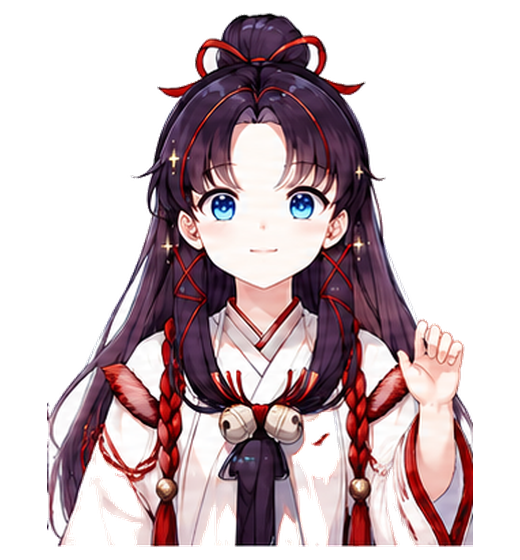
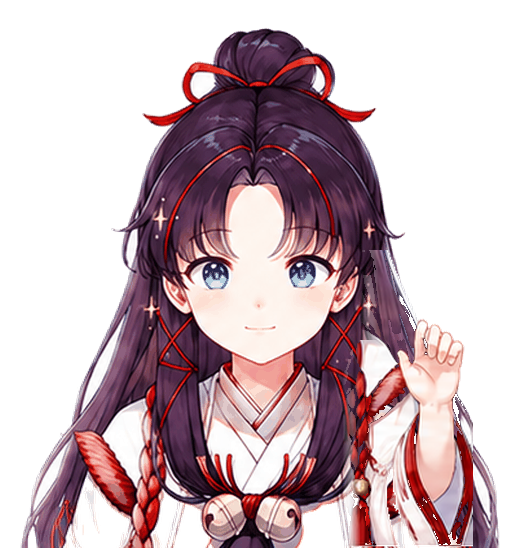
Refine mascot blink and wave rendering

diff --git a/scripts/refine_mascot_frames.py b/scripts/refine_mascot_frames.py
@@ -3,7 +3,7 @@ from __future__ import annotations
 from collections import deque
 from pathlib import Path
 
-from PIL import Image, ImageChops, ImageDraw, ImageOps
+from PIL import Image, ImageChops, ImageDraw, ImageFilter, ImageOps
 
 
 ROOT = Path(__file__).resolve().parents[1]
@@ -14,6 +14,16 @@ WAVE_SRC = ROOT / "ChatGPT Image 2026年5月9日 16_58_49.png"
 CANVAS = (520, 560)
 BASELINE = 548
 PREVIEW_CELL = (188, 182)
+WAVE_ARM_CUTS = [
+    (344, 220),
+    (342, 198),
+    (338, 174),
+    (334, 146),
+    (330, 122),
+    (328, 105),
+    (326, 95),
+    (324, 88),
+]
 
 
 def whiten_to_alpha(image: Image.Image) -> Image.Image:
@@ -121,6 +131,51 @@ def alpha_bbox(image: Image.Image, threshold: int = 8) -> tuple[int, int, int, i
     return bbox
 
 
+def repair_lower_garment_holes(
+    image: Image.Image,
+    *,
+    lower_start_ratio: float = 0.58,
+    margin_x: int = 22,
+    kernel_size: int = 19,
+    min_row_span: int = 110,
+    row_fill: bool = True,
+) -> Image.Image:
+    rgba = image.convert("RGBA")
+    alpha = rgba.getchannel("A")
+    closed = alpha.filter(ImageFilter.MaxFilter(kernel_size)).filter(ImageFilter.MinFilter(kernel_size))
+    alpha_pixels = alpha.load()
+    closed_pixels = closed.load()
+    width, height = rgba.size
+    bbox = alpha_bbox(rgba)
+    x_start = max(0, bbox[0] + margin_x)
+    x_end = min(width, bbox[2] - margin_x)
+    y_start = max(0, bbox[1] + round((bbox[3] - bbox[1]) * lower_start_ratio))
+
+    if x_end <= x_start or y_start >= bbox[3]:
+        return rgba
+
+    for y in range(y_start, bbox[3]):
+        for x in range(x_start, x_end):
+            if alpha_pixels[x, y] <= 8 and closed_pixels[x, y] > 8:
+                alpha_pixels[x, y] = 255
+
+    if row_fill:
+        row_fill_start = max(y_start, bbox[1] + round((bbox[3] - bbox[1]) * 0.5))
+        for y in range(row_fill_start, bbox[3]):
+            row_pixels = [x for x in range(x_start, x_end) if alpha_pixels[x, y] > 8]
+            if len(row_pixels) < 2:
+                continue
+            left_edge = row_pixels[0]
+            right_edge = row_pixels[-1]
+            if right_edge - left_edge < min_row_span:
+                continue
+            for x in range(left_edge, right_edge + 1):
+                alpha_pixels[x, y] = 255
+
+    rgba.putalpha(alpha)
+    return rgba
+
+
 def normalize_frame(
     image: Image.Image,
     *,
@@ -140,6 +195,38 @@ def normalize_frame(
     y = BASELINE - subject.height + y_shift
     canvas.alpha_composite(subject, (x, y))
     return canvas
+
+
+def build_stable_wave_frame(base: Image.Image, source: Image.Image, index: int) -> Image.Image:
+    frame = repair_lower_garment_holes(base)
+    source_rgba = source.convert("RGBA")
+    source_pixels = source_rgba.load()
+    mask = Image.new("L", CANVAS, 0)
+    mask_pixels = mask.load()
+    x_cut, y_cut = WAVE_ARM_CUTS[index]
+
+    for y in range(y_cut, CANVAS[1]):
+        dynamic_x_cut = x_cut
+        if y < 250:
+            dynamic_x_cut = max(dynamic_x_cut, 382)
+        elif y < 340:
+            dynamic_x_cut = max(dynamic_x_cut, 360)
+
+        for x in range(dynamic_x_cut, CANVAS[0]):
+            r, g, b, a = source_pixels[x, y]
+            if a <= 8:
+                continue
+            if max(r, g, b) < 88:
+                continue
+            edge_fade = min(1, max(0, (x - dynamic_x_cut) / 18))
+            if edge_fade <= 0:
+                continue
+            mask_pixels[x, y] = round(a * edge_fade)
+
+    overlay = Image.new("RGBA", CANVAS, (255, 255, 255, 0))
+    overlay.paste(source_rgba, (0, 0), mask)
+    frame.alpha_composite(overlay)
+    return repair_lower_garment_holes(frame, row_fill=False)
 
 
 def crop_grid(image: Image.Image, cols: int, rows: int, index: int) -> Image.Image:
@@ -175,11 +262,13 @@ def crop_wave_cell(image: Image.Image, index: int) -> Image.Image:
 
 
 def regenerate_wave_frames() -> None:
+    base = repair_lower_garment_holes(Image.open(OUT / "look" / "center.png").convert("RGBA"))
     wave_sheet = Image.open(WAVE_SRC).convert("RGBA")
     for index in range(8):
         crop = crop_wave_cell(wave_sheet, index)
         cleaned = remove_left_edge_fragments(whiten_to_alpha(crop))
-        frame = normalize_frame(cleaned, target_height=536, prepared_alpha=True)
+        source = normalize_frame(cleaned, target_height=536, prepared_alpha=True)
+        frame = build_stable_wave_frame(base, source, index)
         frame.save(OUT / "wave" / f"wave-{index}.png")
 
 
@@ -188,16 +277,22 @@ def refine_up_down_look_frames() -> None:
     # The provided 3x3 sheet contains clear straight-up at top-right and
     # straight-down at bottom-right. The middle-left/right cells are clearer
     # horizontal looks, so keep the previous mirror rule for those directions.
-    up = normalize_frame(crop_grid(look_sheet, 3, 3, 2), target_height=527)
+    center = repair_lower_garment_holes(Image.open(OUT / "look" / "center.png").convert("RGBA"))
+    center.save(OUT / "look" / "center.png")
+
+    up = repair_lower_garment_holes(normalize_frame(crop_grid(look_sheet, 3, 3, 2), target_height=527))
     w, h = look_sheet.size
     down_crop = look_sheet.crop((round(2 * w / 3), round(2 * h / 3) + 24, w, h))
-    down = normalize_frame(down_crop, target_height=527)
+    down = repair_lower_garment_holes(normalize_frame(down_crop, target_height=527))
     up.save(OUT / "look" / "up.png")
     down.save(OUT / "look" / "down.png")
 
-    left = Image.open(OUT / "look" / "left.png").convert("RGBA")
-    down_left = Image.open(OUT / "look" / "down-left.png").convert("RGBA")
-    up_left = Image.open(OUT / "look" / "up-left.png").convert("RGBA")
+    left = repair_lower_garment_holes(Image.open(OUT / "look" / "left.png").convert("RGBA"))
+    down_left = repair_lower_garment_holes(Image.open(OUT / "look" / "down-left.png").convert("RGBA"))
+    up_left = repair_lower_garment_holes(Image.open(OUT / "look" / "up-left.png").convert("RGBA"))
+    left.save(OUT / "look" / "left.png")
+    down_left.save(OUT / "look" / "down-left.png")
+    up_left.save(OUT / "look" / "up-left.png")
     ImageOps.mirror(left).save(OUT / "look" / "right.png")
     ImageOps.mirror(up_left).save(OUT / "look" / "up-right.png")
     ImageOps.mirror(down_left).save(OUT / "look" / "down-right.png")

diff --git a/README.md b/README.md
@@ -48,15 +48,15 @@ draft: false
 - sitemap：由 Astro sitemap 集成生成，帮助搜索引擎发现页面。
 - robots.txt：公开爬虫规则并声明 sitemap 地址。
 - 评论占位：现在只留位置，不连接任何评论服务。
-- 二次元小角色：使用 `public/images/mascot-frames/` 中的动作帧，支持鼠标视线方向切换、正面空闲眼部眨眼、点击挥手、拖动位置和隐藏；移动端隐藏，不连接后端。
+- 二次元小角色：使用 `public/images/mascot-frames/` 中的动作帧，支持鼠标视线方向切换、正面空闲眼部眨眼、点击挥手、拖动位置和隐藏；移动端隐藏，不连接后端。眨眼时用前端眼皮层真实盖住眼睛，挥手时用静止底图叠加右臂动作，避免身体大幅漂移。
 
 图片资源放在 `public/images/`：
 
 - `site-bg.jpg`：页面背景图，显示时约 45% 不透明度。
 - `mascot-frames/look/`：九宫格视线方向帧，用于根据鼠标位置切换小人朝向；右向帧由左向帧镜像生成，保证左右一致。
 - `mascot-frames/blink/`：保留眨眼审核帧；实际网页眨眼使用正面帧上的 CSS 眼皮层，只改变眼部，不切换整张人物图。
-- `mascot-frames/wave/`：打招呼帧，用于点击或显示时的挥手动作；包含算法补出的 `wave-*-to-*` 过渡帧，让动作更连贯。
-- `scripts/refine_mascot_frames.py`：使用 `uv` 虚拟环境中的 Pillow 重新生成动作帧、修复挥手切分边界、补正上/正下视角和生成补帧。
+- `mascot-frames/wave/`：打招呼帧，用于点击或显示时的挥手动作；包含算法补出的 `wave-*-to-*` 过渡帧，让动作更连贯。当前挥手帧以静止正面帧为底图，再叠加右臂动作，减少身位变化。
+- `scripts/refine_mascot_frames.py`：使用 `uv` 虚拟环境中的 Pillow 重新生成动作帧、修复挥手切分边界、补正上/正下视角、填补下摆透明破洞和生成补帧。
 - 所有动作帧统一为同一画布和同一底部基线，避免动作之间忽大忽小。
 - `mascot-frames/preview.jpg`：动作帧预览图，只用于本地检查，不提交到仓库。
 

diff --git a/requirements.md b/requirements.md
@@ -399,6 +399,9 @@ src/components/CursorCharacter.astro
 - 打招呼动作帧必须检查切分边界，不能出现上一帧或下一帧的手部残片进入画面角落，手部应尽量完整保留
 - 正上方和正下方视角应使用明确对应的动作帧，并调整鼠标方向判定，保证光标位于小人正上方或正下方时可以稳定触发
 - 可通过本地算法为打招呼动作补充过渡帧，提升动画连贯性；眨眼可使用只覆盖眼部的前端动画保持身体不动；补帧应保持统一画布、统一基线和透明背景
+- 眨眼闭合时必须遮住原本睁开的虹膜和眼白区域，不能只显示睫毛线而保留睁眼效果
+- 打招呼动作应从静止正面状态自然进入挥手状态，身体、头部和服饰主体不应在挥手过程中大幅位移或缩放；优先让身体保持稳定，只让手臂/手部产生主要动作变化
+- 动作帧下方服饰区域不能保留明显不规则透明破洞；应通过本地可复现的 alpha 修复或局部填补方式恢复衣服主体，不要用会泄露源图或敏感信息的外部服务处理
 - 移动端隐藏或简化，不遮挡正文
 - 尊重 `prefers-reduced-motion`
 

diff --git a/plan.md b/plan.md
@@ -42,3 +42,8 @@
 - [x] 补充正上方/正下方视角帧并调整触发逻辑
 - [x] 生成过渡补帧并更新组件帧序列
 - [x] 更新文档、运行检查并提交
+- [x] 更新真实眨眼、稳定挥手和服饰透明破洞需求
+- [x] 修复眨眼闭合遮罩使眼睛真实闭合
+- [x] 重建稳定打招呼动作帧
+- [x] 填补动作帧下方服饰透明破洞
+- [x] 更新文档、运行检查并提交
